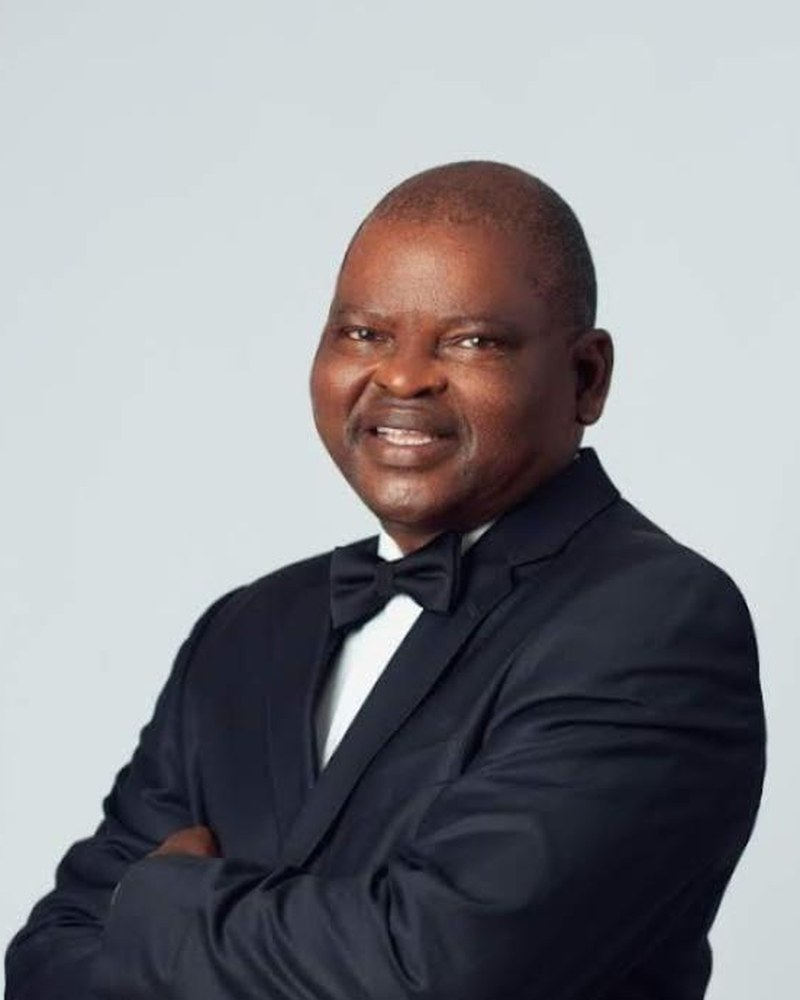
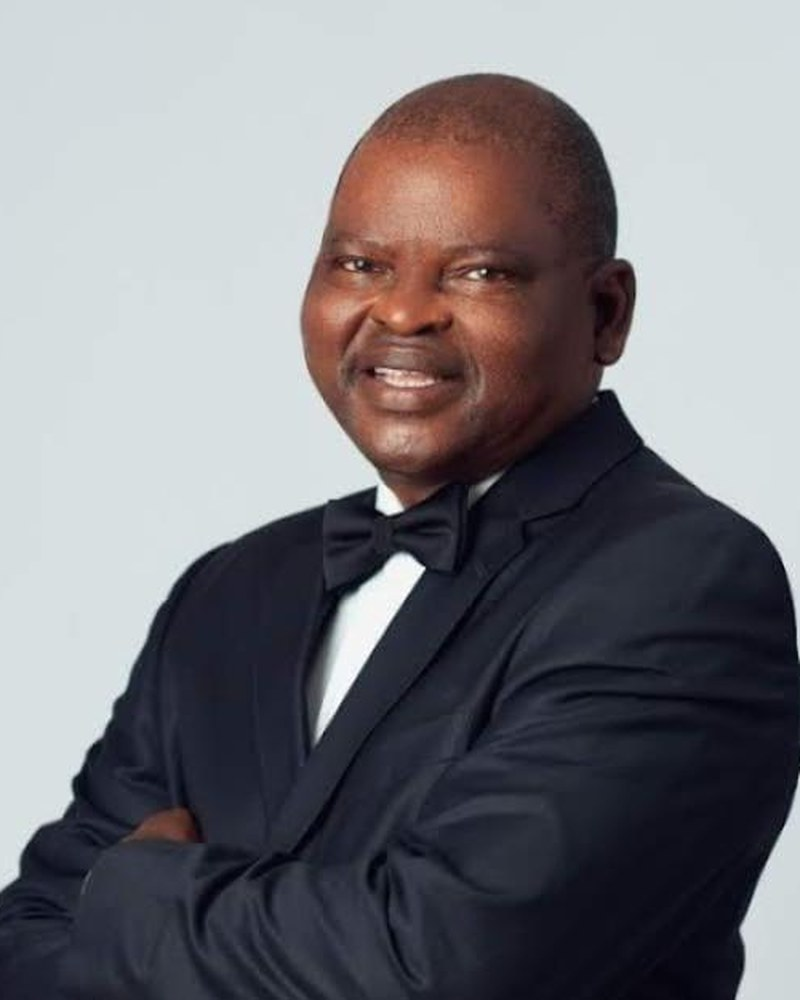
Homepage: less headroom on pastor photos 2 and 3

diff --git a/index.html b/index.html
@@ -245,7 +245,7 @@ function get(u){return fetch(u,{cache:"no-store"}).then(function(r){if(!r.ok)thr
 get("/api/sermons").catch(function(){return get("https://rlw-church.sites.tab.bot/api/sermons")}).then(function(j){if(j.videos.length)render(j.videos);else fallback()}).catch(fallback);
 })();
 </script><script>document.querySelectorAll('.gcopy').forEach(function(b){b.addEventListener('click',function(){var n=b.getAttribute('data-no'),s=b.querySelector('span');function done(){b.classList.add('ok');s.textContent='Copied: '+n;setTimeout(function(){b.classList.remove('ok');s.textContent='Copy account number'},2500)}if(navigator.clipboard&&window.isSecureContext){navigator.clipboard.writeText(n).then(done,fb)}else fb();function fb(){var t=document.createElement('textarea');t.value=n;t.style.position='fixed';t.style.opacity='0';document.body.appendChild(t);t.select();try{document.execCommand('copy')}catch(e){}document.body.removeChild(t);done()}})})</script>
-<script id="pastorrot">(function(){var P=["/pastor2.jpg?v=2","/pastor3.jpg?v=3","/pastor4.jpg?v=3"];var el=document.getElementById("pimg");if(!el||P.length<2)return;
+<script id="pastorrot">(function(){var P=["/pastor2.jpg?v=2","/pastor3.jpg?v=4","/pastor4.jpg?v=4"];var el=document.getElementById("pimg");if(!el||P.length<2)return;
 P.forEach(function(s){var i=new Image();i.src=s;});
 function idx(){return Math.floor(Date.now()/3600000)%P.length;}
 function set(){var s=P[idx()];if(el.getAttribute("src")===s)return;el.style.transition="opacity .6s";el.style.opacity="0";setTimeout(function(){el.setAttribute("src",s);el.style.opacity="1";},600);}
